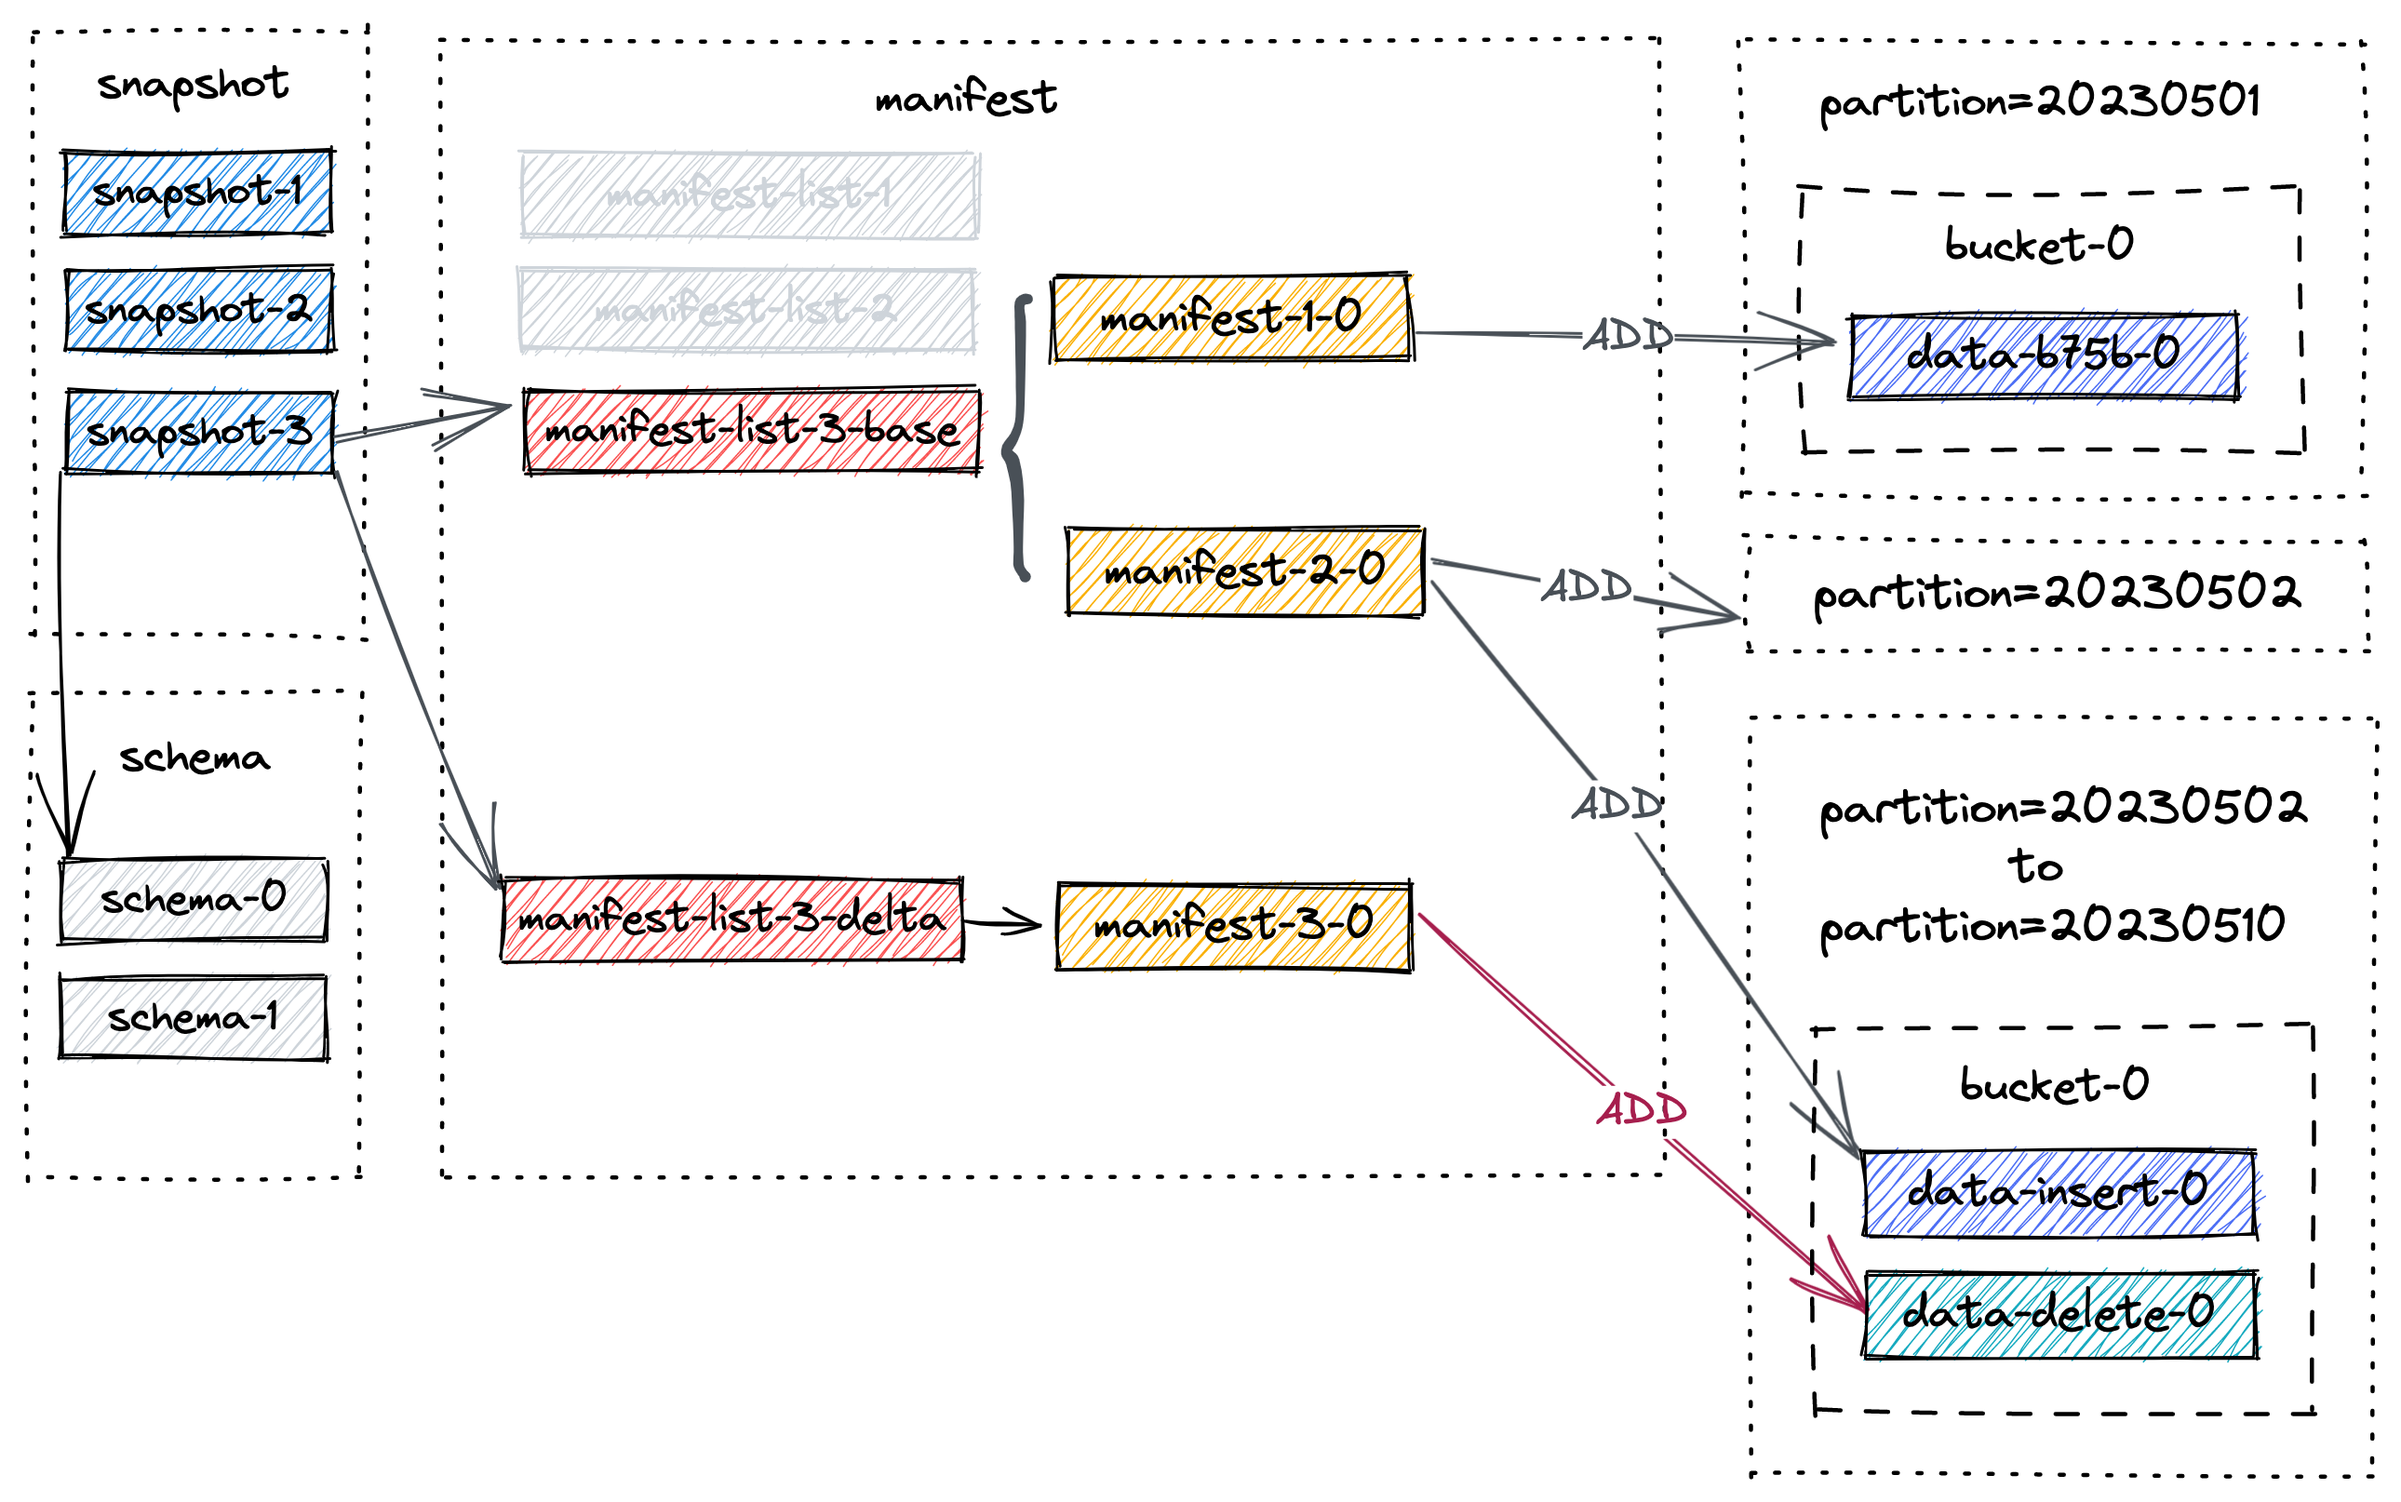
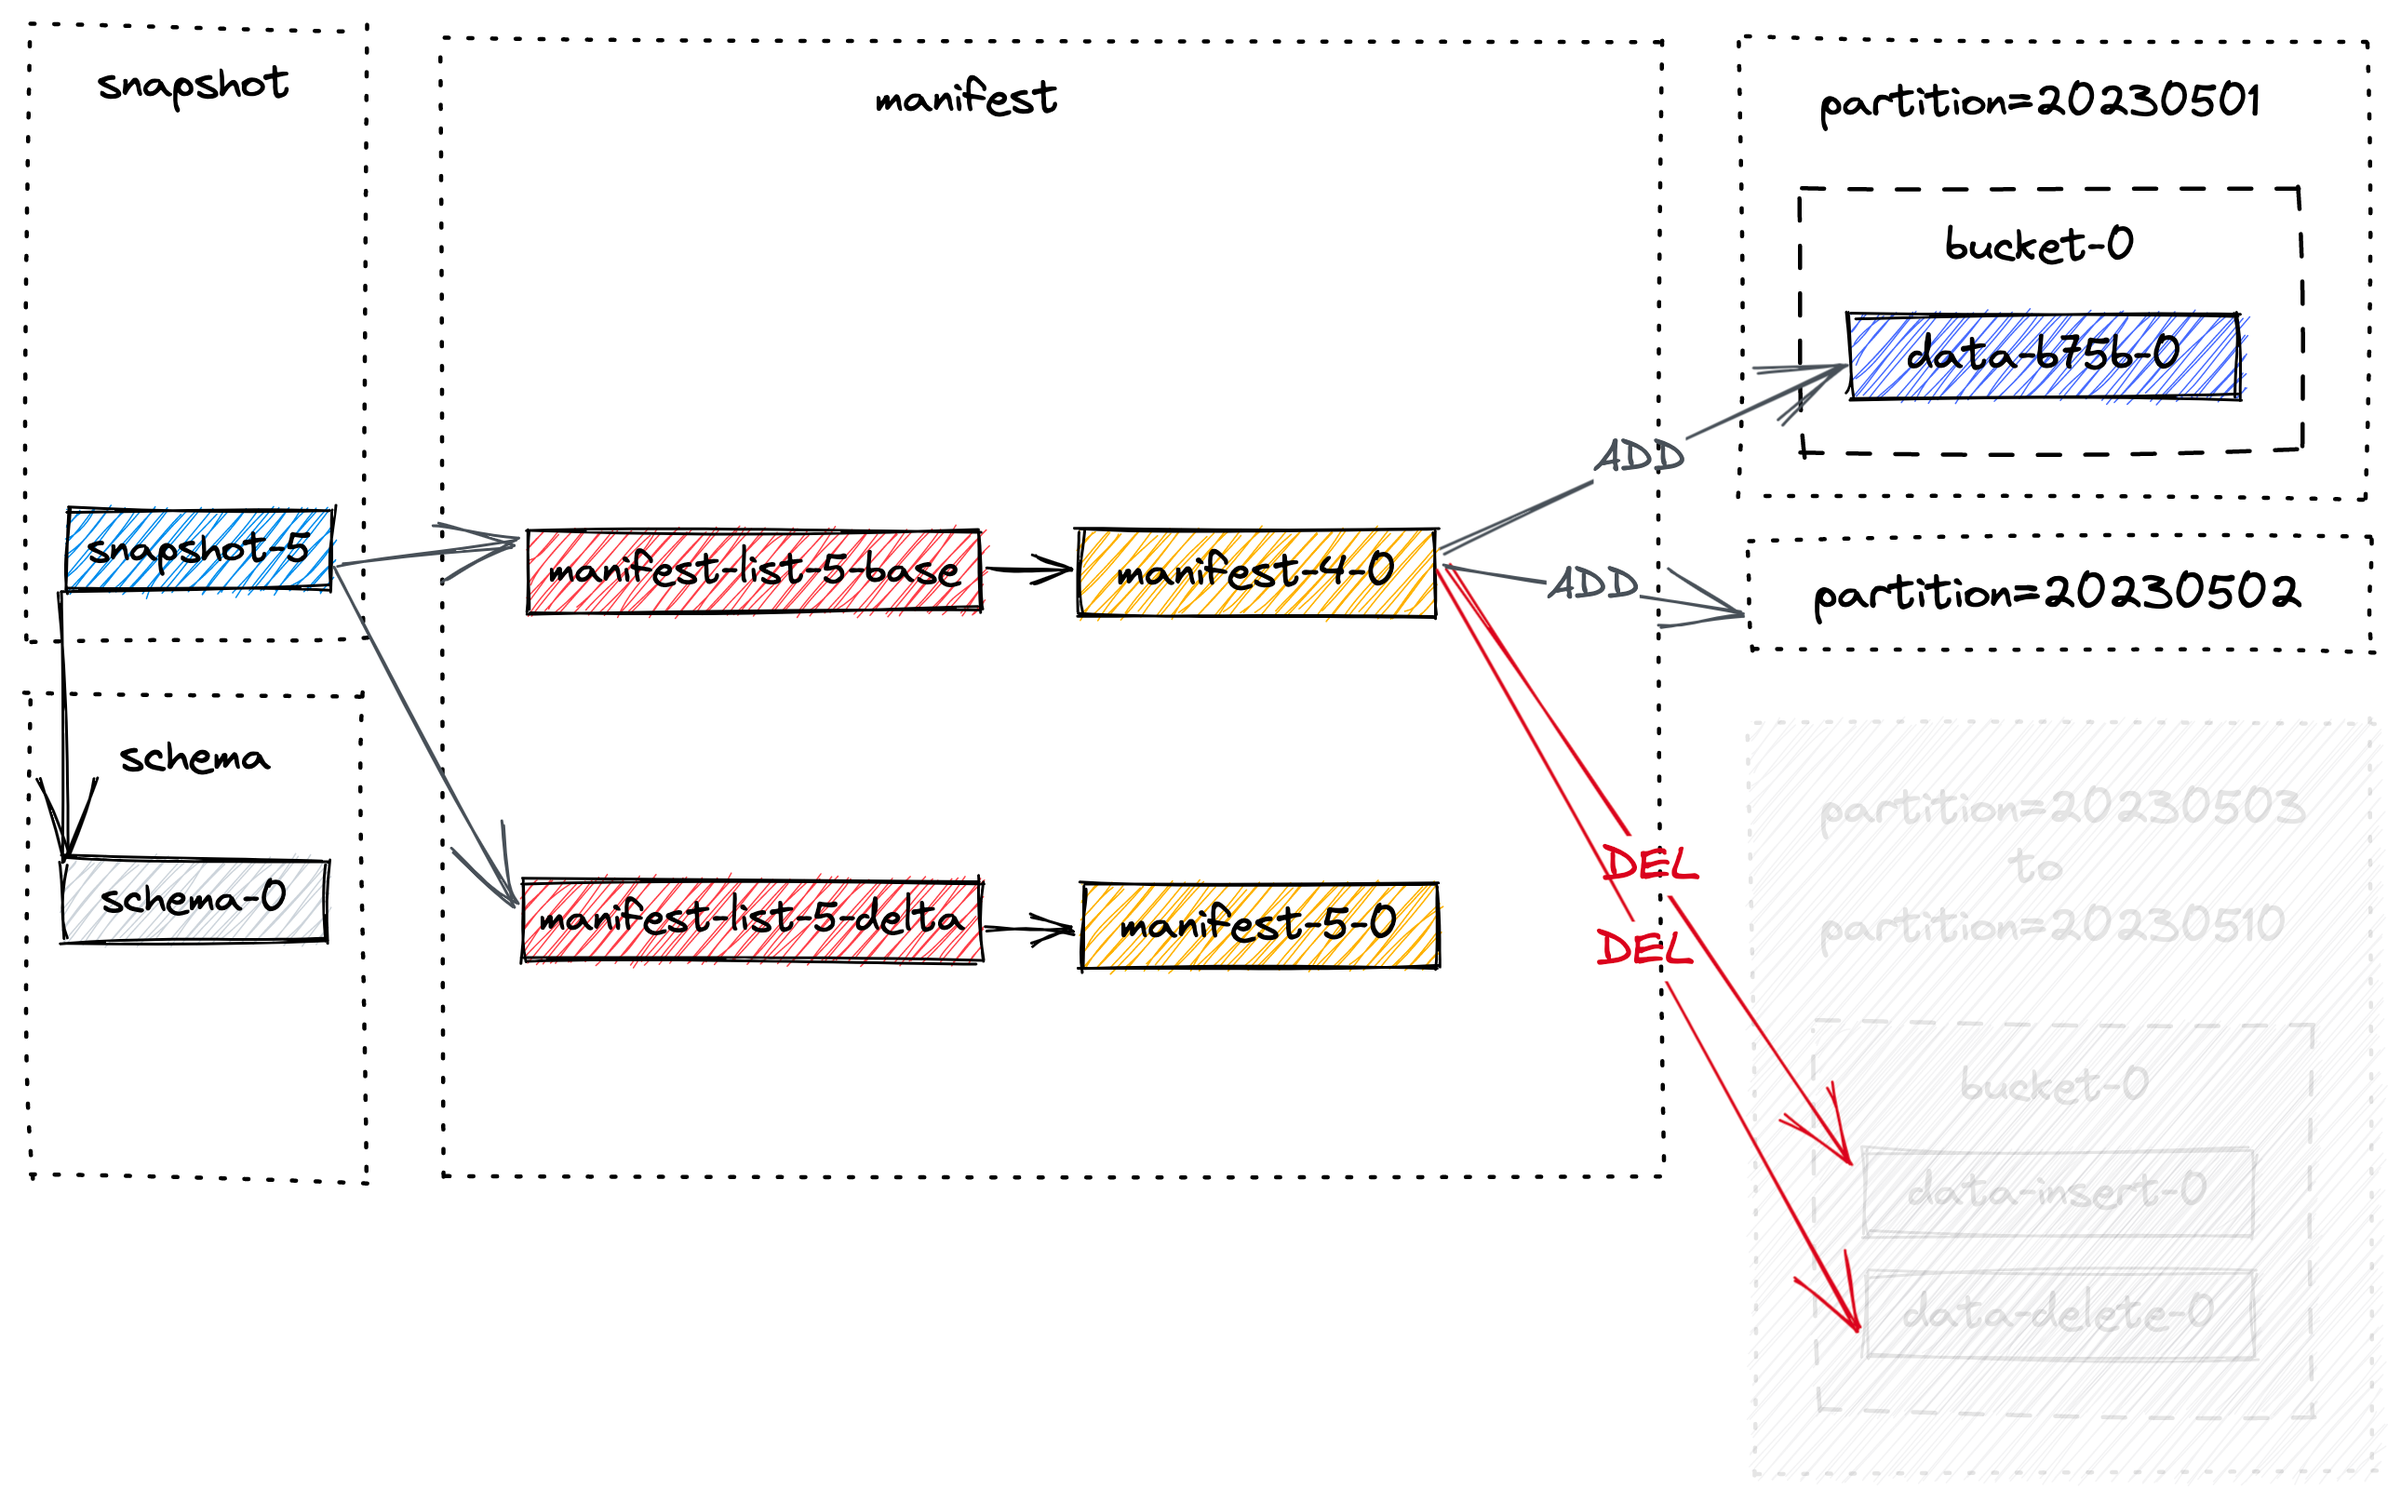
remove some content

diff --git a/docs/content/concepts/file-operations.md b/docs/content/concepts/file-operations.md
@@ -98,8 +98,8 @@ The content of snapshot-1 contains metadata of the snapshot, such as manifest li
   "version" : 3,
   "id" : 1,
   "schemaId" : 0,
-  "baseManifestList" : "manifest-list4ccc-c07f-4090-958c-cfe3ce3889e5-0",
-  "deltaManifestList" : "manifest-list4ccc-c07f-4090-958c-cfe3ce3889e5-1",
+  "baseManifestList" : "manifest-list-4ccc-c07f-4090-958c-cfe3ce3889e5-0",
+  "deltaManifestList" : "manifest-list-4ccc-c07f-4090-958c-cfe3ce3889e5-1",
   "changelogManifestList" : null,
   "commitUser" : "7d758485-981d-4b1a-a0c6-d34c3eb254bf",
   "commitIdentifier" : 9223372036854775807,
@@ -120,17 +120,17 @@ created (the file names might differ from those in your experiment):
 
 ```bash
 ./T/manifest:
-manifest-list4ccc-c07f-4090-958c-cfe3ce3889e5-1	
-manifest-list4ccc-c07f-4090-958c-cfe3ce3889e5-0
+manifest-list-4ccc-c07f-4090-958c-cfe3ce3889e5-1	
+manifest-list-4ccc-c07f-4090-958c-cfe3ce3889e5-0
 manifest-2b833ea4-d7dc-4de0-ae0d-ad76eced75cc-0
 ```
 `manifest-2b833ea4-d7dc-4de0-ae0d-ad76eced75cc-0` is the manifest 
 file (manifest-1-0 in the above graph), which stores the information about the data files in the snapshot.
 
-`manifest-list4ccc-c07f-4090-958c-cfe3ce3889e5-0` is the 
+`manifest-list-4ccc-c07f-4090-958c-cfe3ce3889e5-0` is the 
 baseManifestList (manifest-list-1-base in the above graph), which is effectively empty.
 
-`manifest-list4ccc-c07f-4090-958c-cfe3ce3889e5-1` is the 
+`manifest-list-4ccc-c07f-4090-958c-cfe3ce3889e5-1` is the 
 deltaManifestList (manifest-list-1-delta in the above graph), which 
 contains a list of manifest entries that perform operations on data 
 files, which, in this case, is `manifest-B-0`.
@@ -179,12 +179,12 @@ EARLIEST
 snapshot-1
 
 ./T/manifest:
-manifest-list9ac2-5e79-4978-a3bc-86c25f1a303f-1	 # delta manifest list for snapshot-2
-manifest-list9ac2-5e79-4978-a3bc-86c25f1a303f-0  # base manifest list for snapshot-2	
+manifest-list-9ac2-5e79-4978-a3bc-86c25f1a303f-1	 # delta manifest list for snapshot-2
+manifest-list-9ac2-5e79-4978-a3bc-86c25f1a303f-0  # base manifest list for snapshot-2	
 manifest-f1267033-e246-4470-a54c-5c27fdbdd074-0	 # manifest file for snapshot-2
 
-manifest-list4ccc-c07f-4090-958c-cfe3ce3889e5-1	 # delta manifest list for snapshot-1 
-manifest-list4ccc-c07f-4090-958c-cfe3ce3889e5-0  # base manifest list for snapshot-1
+manifest-list-4ccc-c07f-4090-958c-cfe3ce3889e5-1	 # delta manifest list for snapshot-1 
+manifest-list-4ccc-c07f-4090-958c-cfe3ce3889e5-0  # base manifest list for snapshot-1
 manifest-2b833ea4-d7dc-4de0-ae0d-ad76eced75cc-0  # manifest file for snapshot-1
 
 ./T/dt=20230501/bucket-0:
@@ -274,8 +274,8 @@ made and contains the following information:
   "version" : 3,
   "id" : 4,
   "schemaId" : 0,
-  "baseManifestList" : "manifest-list9be16-82e7-4941-8b0a-7ce1c1d0fa6d-0",
-  "deltaManifestList" : "manifest-list9be16-82e7-4941-8b0a-7ce1c1d0fa6d-1",
+  "baseManifestList" : "manifest-list-9be16-82e7-4941-8b0a-7ce1c1d0fa6d-0",
+  "deltaManifestList" : "manifest-list-9be16-82e7-4941-8b0a-7ce1c1d0fa6d-1",
   "changelogManifestList" : null,
   "commitUser" : "a3d951d5-aa0e-4071-a5d4-4c72a4233d48",
   "commitIdentifier" : 9223372036854775807,
@@ -307,18 +307,6 @@ ALTER TABLE T SET ('full-compaction.delta-commits' = '1');
 It will create a new schema for Paimon table, namely `schema-1`, but no snapshot
 has actually used this schema yet until the next commit.
 
-This configuration will ensure that partitions are full compacted before writing
-ends, and since we haven't done any compaction yet, the next commit will produce
-two snapshots, one for data written and the other for full-compaction. We will
-not use it in this example since Flink does not support running compaction in 
-Flink SQL. However, when performing CDC ingestion with this table property, you 
-can notice two snapshots created in the next commit.
-
-{{< img src="/img/file-operations-4.png">}}
-
-
-
-
 ## Expire Snapshots
 
 Remind that the marked data files are not truly deleted until the snapshot expires and 
@@ -344,7 +332,7 @@ Let's say another snapshot, `snapshot-5` is created and snapshot expiration is t
 to be deleted. For simplicity, we will only focus on files from previous snapshots, the final layout after snapshot 
 expiration looks like:
 
-{{< img src="/img/file-operations-5.png">}}
+{{< img src="/img/file-operations-4.png">}}
 
 As a result, partition `20230503` to `20230510` are physically deleted.
 
